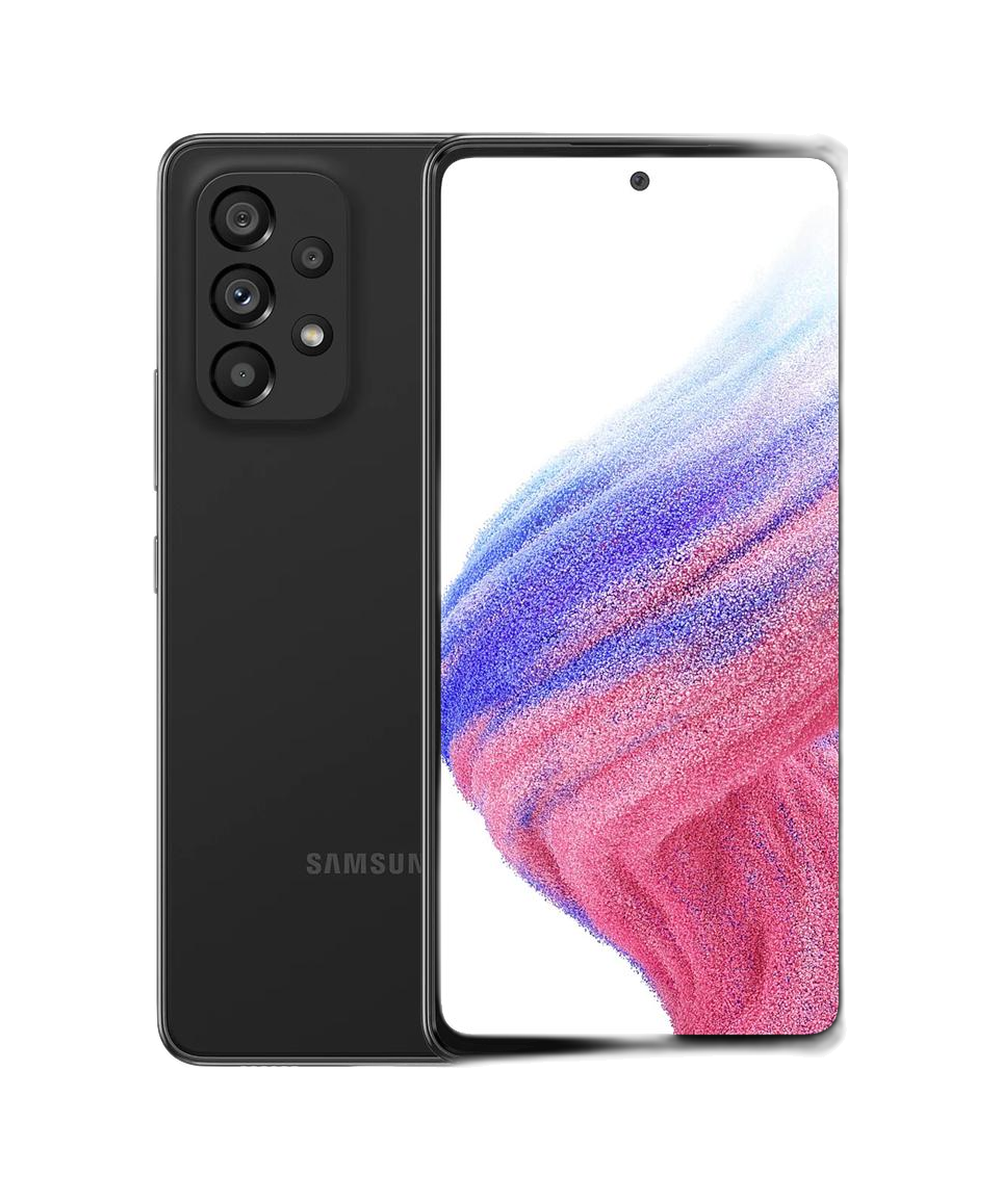
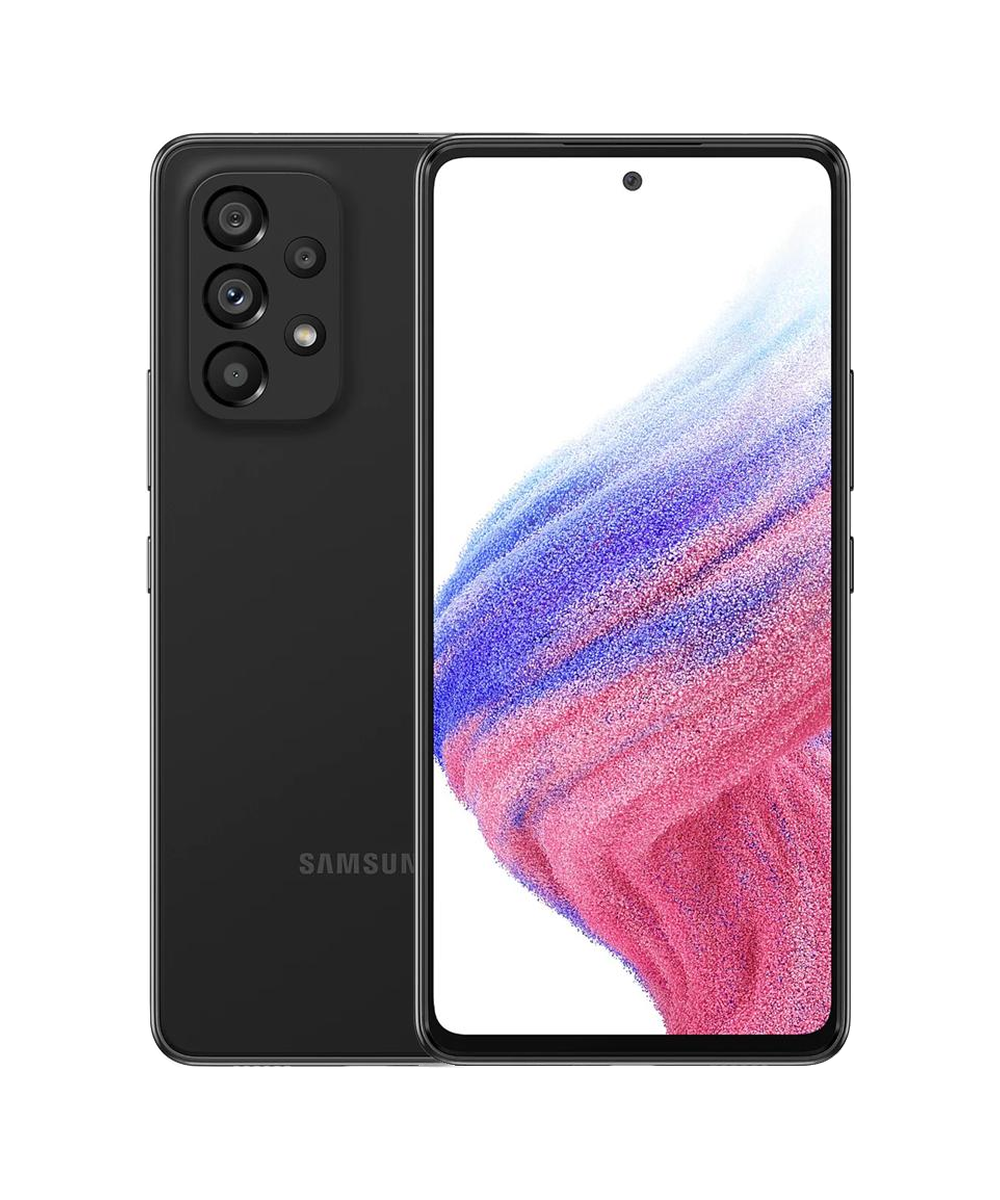
fix: restore complete Galaxy A53 device cutout

Changed region(s): [[0.279, 0.0925, 0.868, 0.8942], [0.124, 0.0925, 0.341, 0.8942]]

diff --git a/scripts/standardize_device_images.py b/scripts/standardize_device_images.py
@@ -41,10 +41,12 @@ DEVICES = {
 
 # Protected source-space device bodies that white-background segmentation can
 # confuse with the studio backdrop. Each entry is (x0, y0, x1, y1, corner_radius).
-# The A16 4G rear shell is nearly white, so its observed rounded-rectangle body
-# silhouette is restored without changing any source RGB pixels or other assets.
+# The A16 4G rear shell is nearly white, and the A53 dark glass/frame can be
+# confused with openings by saliency segmentation. Restore only their observed
+# source-bounded rounded device silhouettes without changing source RGB pixels.
 PROTECTED_BODIES = {
     "a16-4g": ((329, 56, 585, 765, 43),),
+    "a53-5g": ((190, 61, 486, 958, 42), (445, 61, 869, 958, 46)),
 }
 
 

diff --git a/README.md b/README.md
@@ -12,7 +12,7 @@ The existing A11 entry is an experimental diagnostic test build, not a stable RO
 
 All 11 catalog device illustrations are served from `device-images/` as transparent 1000×1200 RGBA PNGs. Phone pairs share a 940 px visual height and are centered on the canvas; the landscape Tab A9+ has a 900 px visual width. The site continues to use its existing centered `object-fit: contain` image containers. Original source renders remain untouched in the repository root.
 
-To regenerate the cutouts from the originals, install Pillow and `rembg[cpu]` with `python3 -m pip install Pillow 'rembg[cpu]'`, then run `python3 scripts/standardize_device_images.py`. The first run downloads the U²-Net model weights. To regenerate only one asset, pass its device id, for example `python3 scripts/standardize_device_images.py --device a16-4g`. Near-white phone bodies that merge into the studio backdrop are protected by source-bounded rounded silhouettes in the standardization script. Run `python3 scripts/verify_device_images.py` to check dimensions, PNG/RGBA format, transparent canvas margins, silhouette placement/scale, and all `app.js` image mappings before publishing.
+To regenerate the cutouts from the originals, install Pillow and `rembg[cpu]` with `python3 -m pip install Pillow 'rembg[cpu]'`, then run `python3 scripts/standardize_device_images.py`. The first run downloads the U²-Net model weights. To regenerate only one asset, pass its device id, for example `python3 scripts/standardize_device_images.py --device a53-5g`. Source-bounded rounded silhouettes protect the A16 4G pale rear body and Galaxy A53 front/rear housings when segmentation mistakes product pixels for background. Run `python3 scripts/verify_device_images.py` to check dimensions, PNG/RGBA format, transparent canvas margins, silhouette placement/scale, and all `app.js` image mappings before publishing.
 
 ## Screenshot gallery
 
